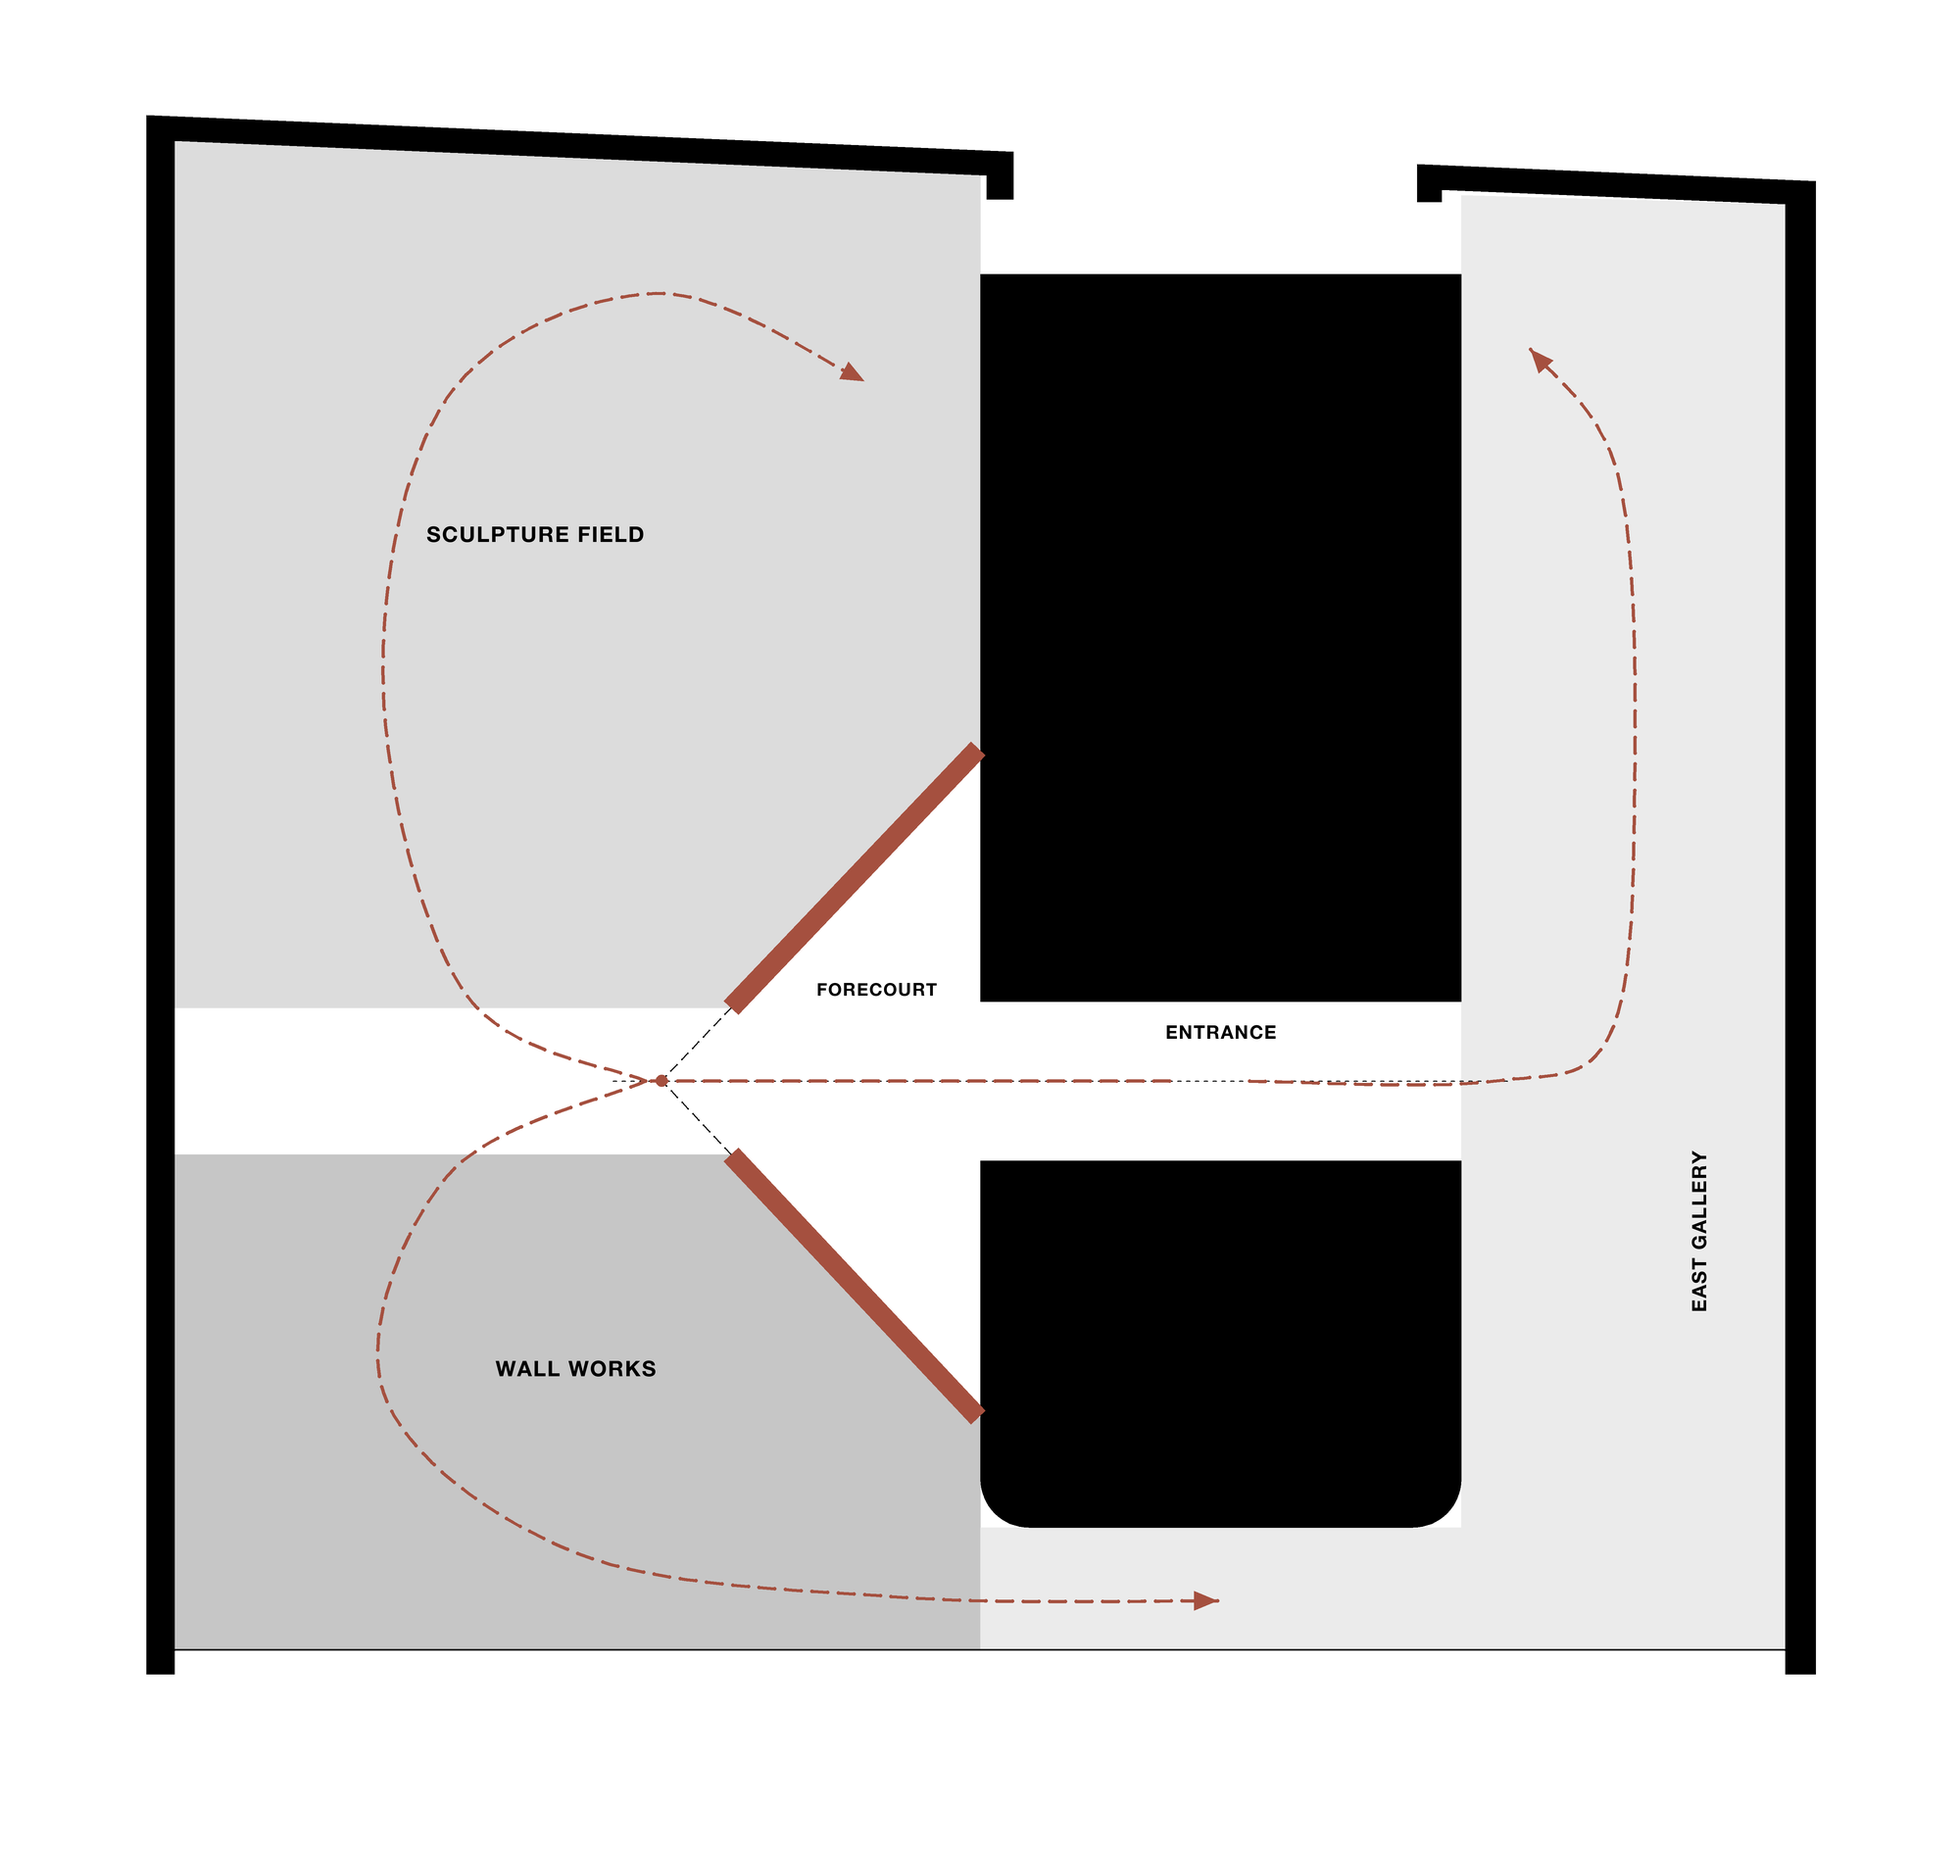
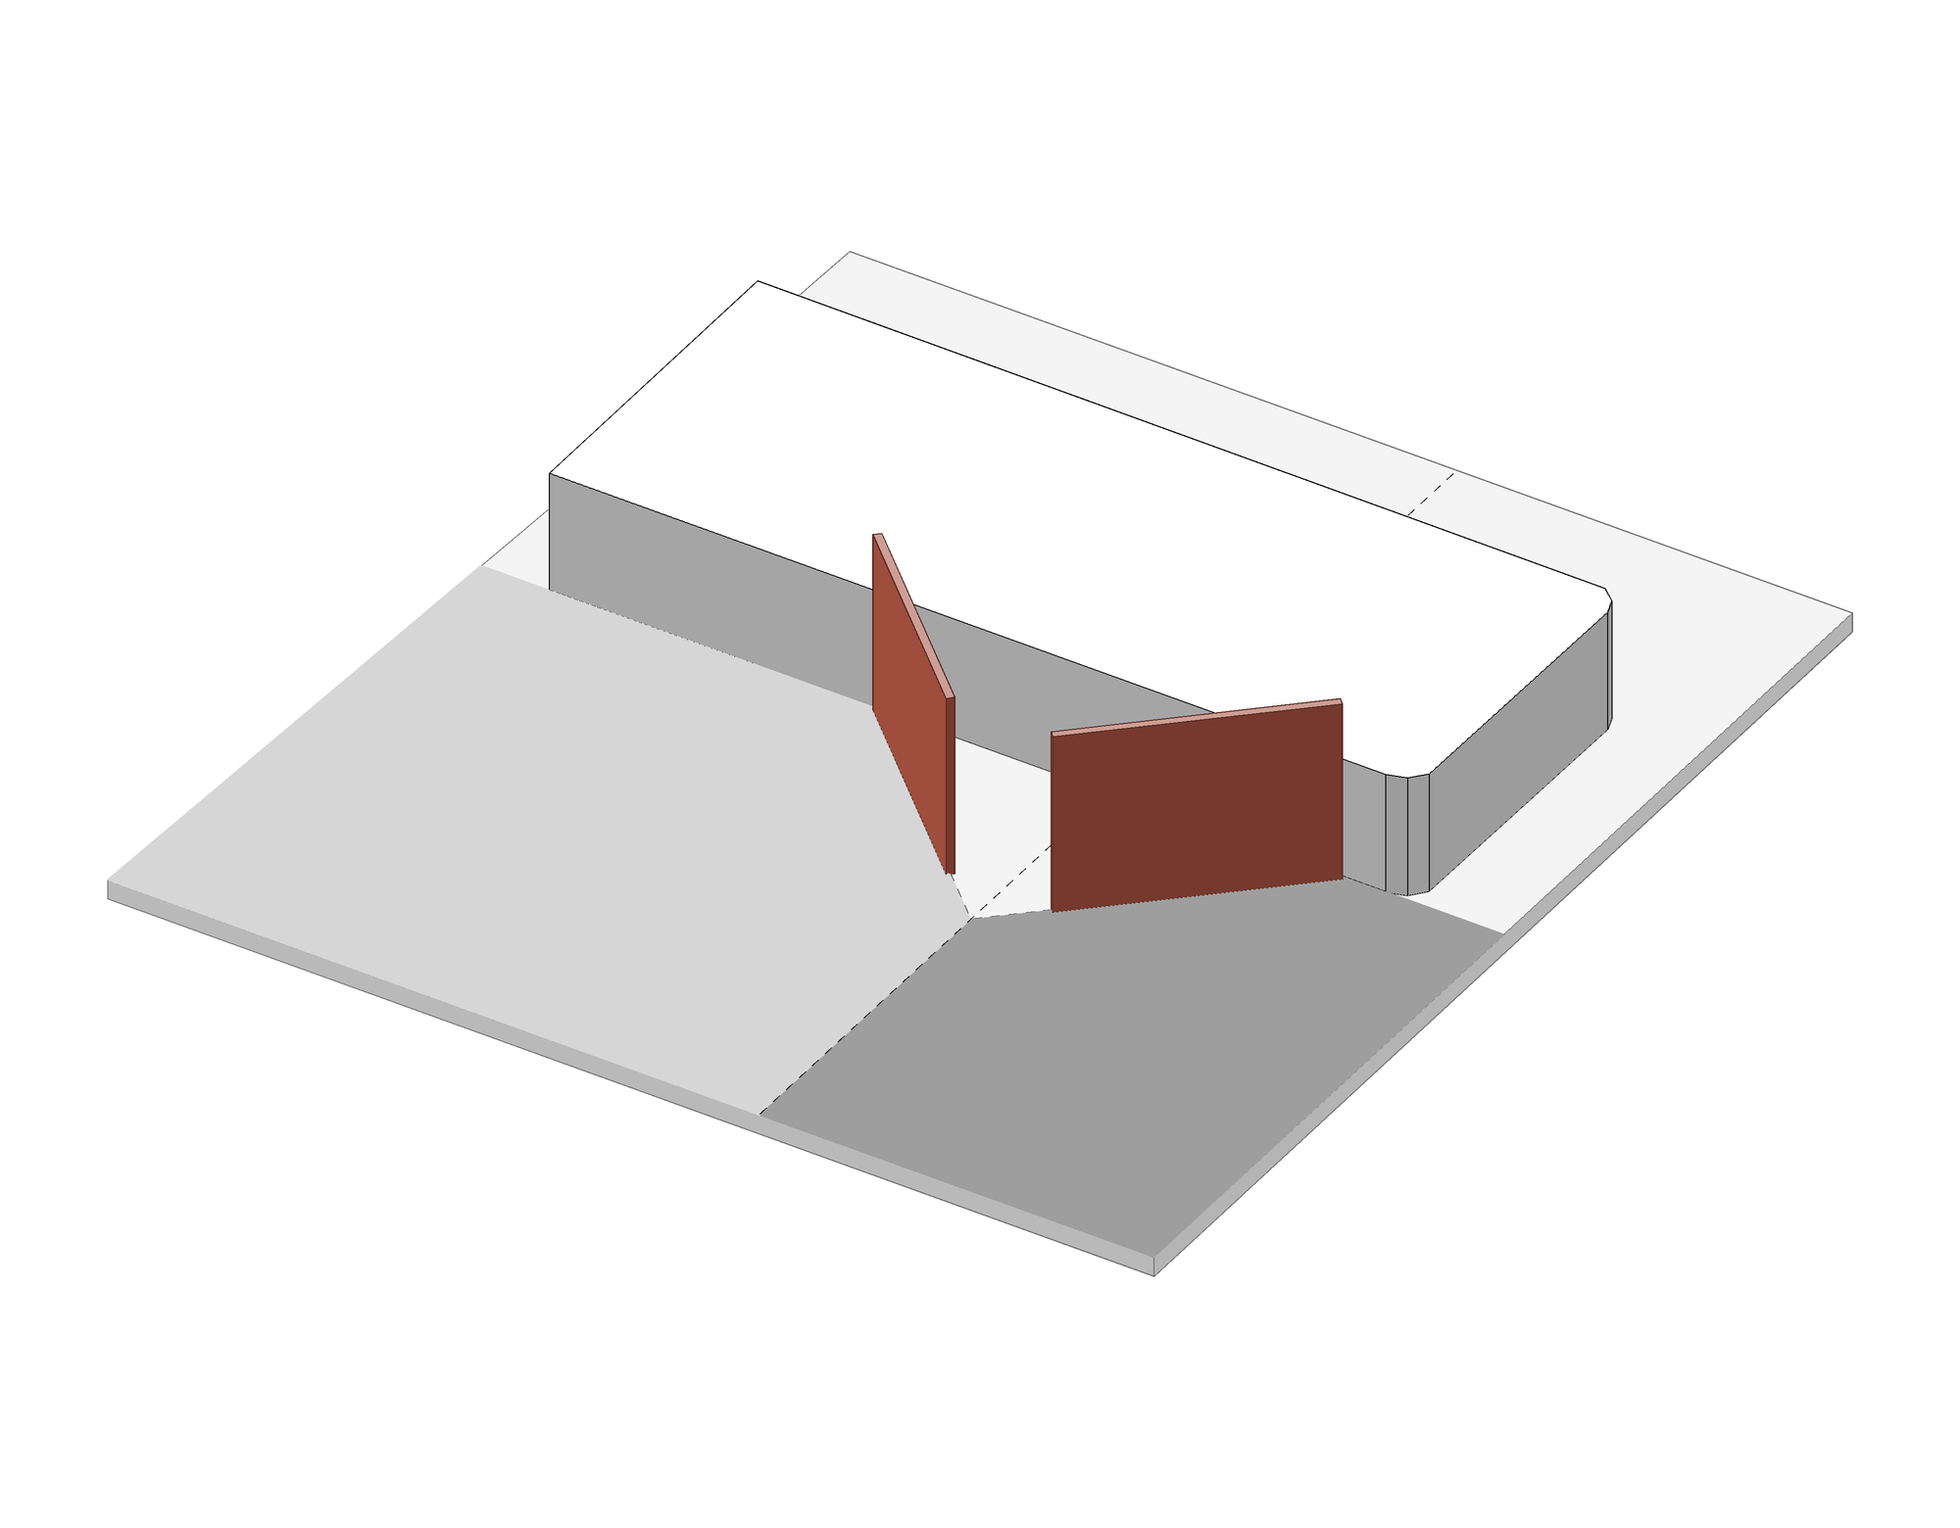
Abstract diagrams and detail sheets for Dzama and Feelings in Common
New diagrams replace the busier ones; a steel screen frame detail (Dzama)
and a frosted glass wall detail (Feelings in Common) join the photographs.

diff --git a/src/content/projects-de/feelings-in-common.md b/src/content/projects-de/feelings-in-common.md
@@ -28,6 +28,7 @@ images:
   - "/images/projects/feelings-in-common/feelings-in-common-dwg-02.png"
   - "/images/projects/feelings-in-common/feelings-in-common-07.jpg"
   - "/images/projects/feelings-in-common/feelings-in-common-08.jpg"
+  - "/images/projects/feelings-in-common/feelings-in-common-dwg-05.png"
   - "/images/projects/feelings-in-common/feelings-in-common-09.jpg"
   - "/images/projects/feelings-in-common/feelings-in-common-10.jpg"
 captions:
@@ -38,7 +39,10 @@ captions:
     text: "Explosionsaxonometrie: Galerie, Wände und Sockel, Werke"
     credit: "Studio No Frame"
   - image: "/images/projects/feelings-in-common/feelings-in-common-dwg-03.png"
-    text: "Diagramm: zwei schräge Wände auf der Achse der Lobby teilen den Saal in ein Skulpturenfeld und einen Raum für Wandarbeiten"
+    text: "Diagramm: zwei schräge Glaswände auf der Achse der Lobby teilen den Saal in ein Skulpturenfeld und einen Raum für Wandarbeiten"
+    credit: "Studio No Frame"
+  - image: "/images/projects/feelings-in-common/feelings-in-common-dwg-05.png"
+    text: "Detail: Wand aus satiniertem Glas, Ansicht, Grundriss, Fußpunkt und Pfosten"
     credit: "Studio No Frame"
 ---
 

diff --git a/src/content/projects-de/marcel-dzama-istanbul.md b/src/content/projects-de/marcel-dzama-istanbul.md
@@ -25,6 +25,7 @@ images:
   - "/images/projects/marcel-dzama-istanbul/marcel-dzama-istanbul-dwg-03.png"
   - "/images/projects/marcel-dzama-istanbul/marcel-dzama-istanbul-05.jpg"
   - "/images/projects/marcel-dzama-istanbul/marcel-dzama-istanbul-06.jpg"
+  - "/images/projects/marcel-dzama-istanbul/marcel-dzama-istanbul-dwg-05.png"
   - "/images/projects/marcel-dzama-istanbul/marcel-dzama-istanbul-07.jpg"
 captions:
   - image: "/images/projects/marcel-dzama-istanbul/marcel-dzama-istanbul-dwg-01.png"
@@ -34,7 +35,10 @@ captions:
     text: "Explosionsaxonometrie: Galerie, Rahmen, Sitze und Boden, Filme und Werke"
     credit: "Studio No Frame"
   - image: "/images/projects/marcel-dzama-istanbul/marcel-dzama-istanbul-dwg-03.png"
-    text: "Diagramm: Sichtlinien von den Sitzen zu den beiden Leinwänden"
+    text: "Diagramm: zwei Kinos, um 45° gegen die orthogonale Ordnung der Galerie gedreht"
+    credit: "Studio No Frame"
+  - image: "/images/projects/marcel-dzama-istanbul/marcel-dzama-istanbul-dwg-05.png"
+    text: "Detail: Leinwandrahmen aus Stahl, Ansicht, Grundriss und Eckverbindung"
     credit: "Studio No Frame"
 ---
 

diff --git a/src/content/projects/feelings-in-common.md b/src/content/projects/feelings-in-common.md
@@ -28,6 +28,7 @@ images:
   - "/images/projects/feelings-in-common/feelings-in-common-dwg-02.png"
   - "/images/projects/feelings-in-common/feelings-in-common-07.jpg"
   - "/images/projects/feelings-in-common/feelings-in-common-08.jpg"
+  - "/images/projects/feelings-in-common/feelings-in-common-dwg-05.png"
   - "/images/projects/feelings-in-common/feelings-in-common-09.jpg"
   - "/images/projects/feelings-in-common/feelings-in-common-10.jpg"
 captions:
@@ -38,7 +39,10 @@ captions:
     text: "Exploded axonometric: gallery, walls and plinths, works"
     credit: "Studio No Frame"
   - image: "/images/projects/feelings-in-common/feelings-in-common-dwg-03.png"
-    text: "Diagram: two angled walls on the lobby axis divide the hall into a sculpture field and a room of wall works"
+    text: "Diagram: two angled glass walls on the lobby axis split the hall into a sculpture field and a room of wall works"
+    credit: "Studio No Frame"
+  - image: "/images/projects/feelings-in-common/feelings-in-common-dwg-05.png"
+    text: "Detail: frosted glass wall, elevation, plan, foot and post"
     credit: "Studio No Frame"
 ---
 

diff --git a/src/content/projects/marcel-dzama-istanbul.md b/src/content/projects/marcel-dzama-istanbul.md
@@ -25,6 +25,7 @@ images:
   - "/images/projects/marcel-dzama-istanbul/marcel-dzama-istanbul-dwg-03.png"
   - "/images/projects/marcel-dzama-istanbul/marcel-dzama-istanbul-05.jpg"
   - "/images/projects/marcel-dzama-istanbul/marcel-dzama-istanbul-06.jpg"
+  - "/images/projects/marcel-dzama-istanbul/marcel-dzama-istanbul-dwg-05.png"
   - "/images/projects/marcel-dzama-istanbul/marcel-dzama-istanbul-07.jpg"
 captions:
   - image: "/images/projects/marcel-dzama-istanbul/marcel-dzama-istanbul-dwg-01.png"
@@ -34,7 +35,10 @@ captions:
     text: "Exploded axonometric: gallery, frames, seats and floor, films and works"
     credit: "Studio No Frame"
   - image: "/images/projects/marcel-dzama-istanbul/marcel-dzama-istanbul-dwg-03.png"
-    text: "Diagram: sight lines from the seats to the two screens"
+    text: "Diagram: two cinemas turned 45° against the orthogonal order of the gallery"
+    credit: "Studio No Frame"
+  - image: "/images/projects/marcel-dzama-istanbul/marcel-dzama-istanbul-dwg-05.png"
+    text: "Detail: steel screen frame, elevation, plan and corner joint"
     credit: "Studio No Frame"
 ---
 
